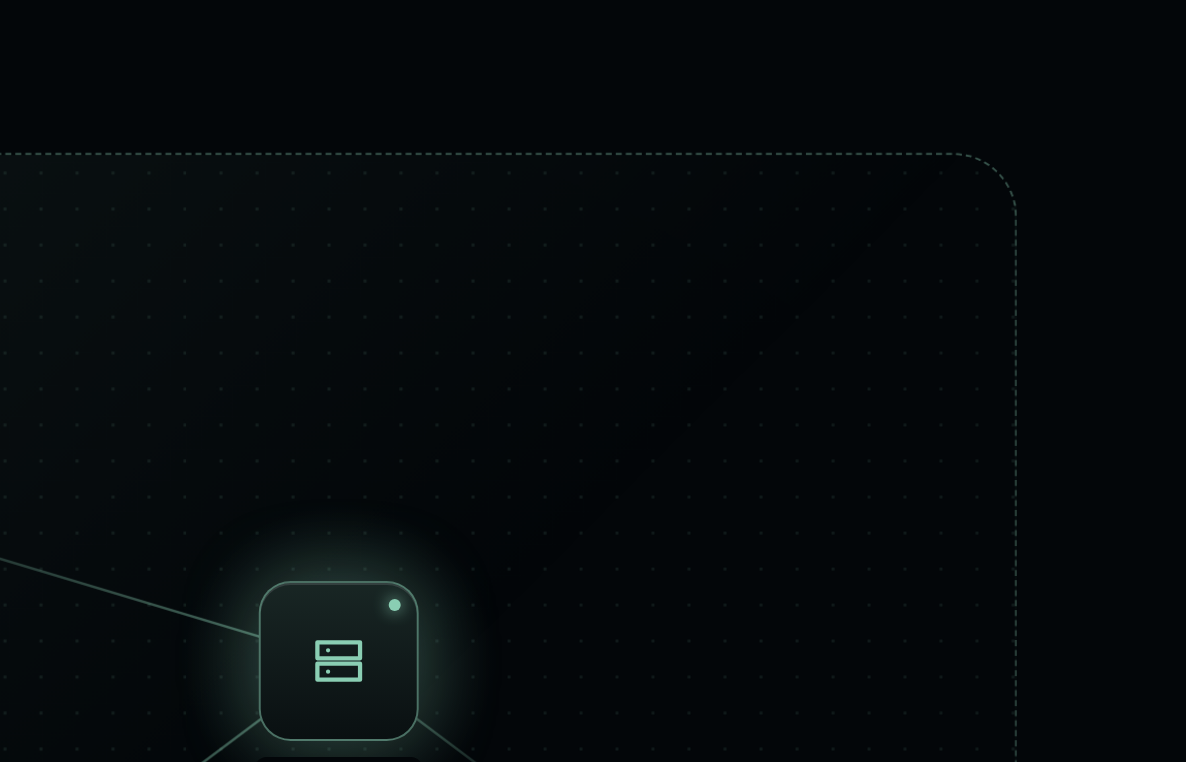
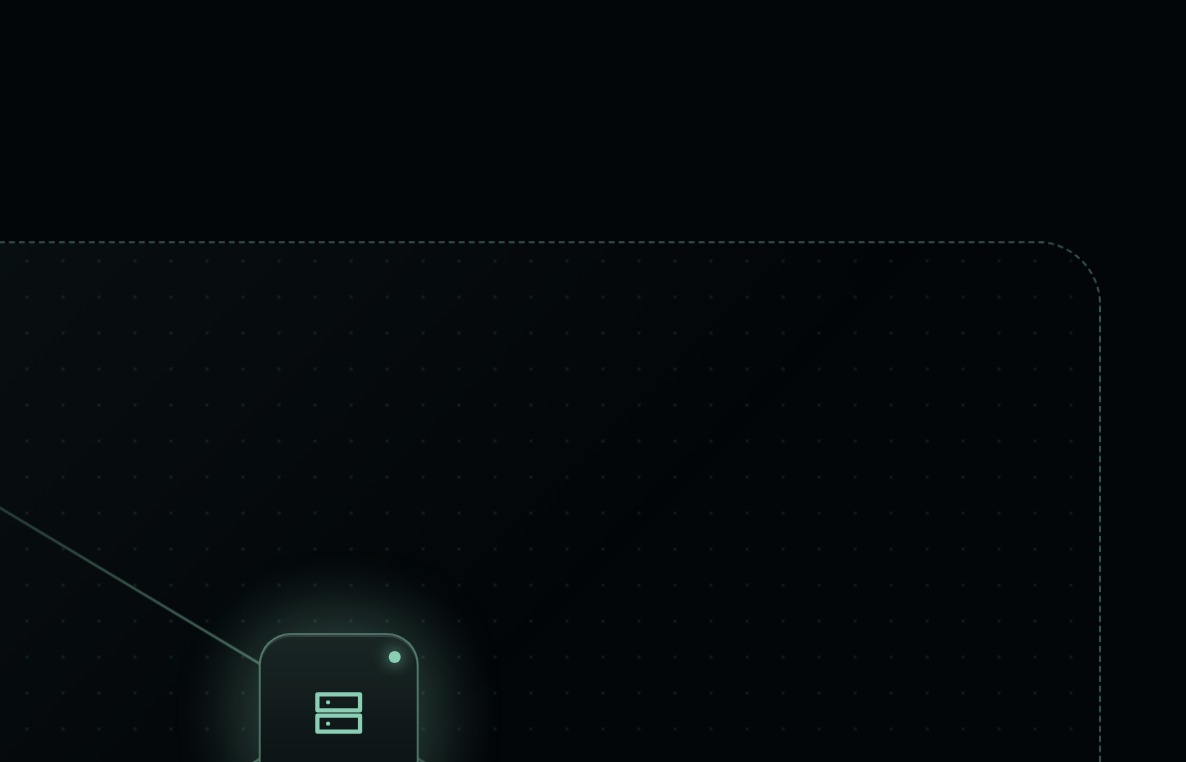
fix(sau/motion): corte en el borde del perímetro, tope de piezas de bloque y limpieza (revisión estética v3, GAL-1904)
- Esquema: con perímetro, la marca de corte cae por defecto donde el conector cruza su borde
  (calculado desde perimeter.box). Muestrario: API pública arriba, fuera de la red; nodos superiores más
  arriba. N3: ningún nodo a menos de 12 px del perímetro y la marca de corte sobre el borde (1280/390).
- Dosis (OK de Pelayo): como máximo 6 piezas de bloque (bento, cifras, filas) por página en todas las
  intensidades: motion-rules.md, catálogo, SKILL.md de motion-director y comprobación en onpage-optimizer.
- N1: la línea de SKILL.md que prohíbe asignar «En prueba» se busca exacta.
- Borradas las capturas obsoletas esquema-radial-guiones-* (OK de Pelayo).

diff --git a/evals/sau/motion/banco-web/src/app/page.tsx b/evals/sau/motion/banco-web/src/app/page.tsx
@@ -187,21 +187,21 @@ export default function Muestrario() {
       <section data-pieza="esquema-radial">
         <Diagram
           caption="Tu servidor es el centro: documentos, sistemas, accesos y auditoría se quedan dentro de tu red, y la conexión a una API pública está cortada."
-          perimeter={{ label: "Tu red" }}
+          perimeter={{ label: "Tu red", box: { left: 5, top: 19, right: 5, bottom: 2 } }}
           nodes={[
-            { id: "srv", label: "Tu servidor", sublabel: "On-premise", x: 50, y: 52, emphasis: true, icon: <Icono d="M4 5h16v6H4zM4 13h16v6H4zM8 8h.01M8 16h.01" /> },
-            { id: "doc", label: "Documentos", x: 20, y: 40, icon: <Icono d="M7 3h7l5 5v13H7zM14 3v5h5" /> },
-            { id: "sis", label: "Sistemas", x: 20, y: 82, icon: <Icono d="M5 6c0-1.5 3-3 7-3s7 1.5 7 3-3 3-7 3-7-1.5-7-3zM5 6v12c0 1.5 3 3 7 3s7-1.5 7-3V6" /> },
-            { id: "acc", label: "Accesos", x: 80, y: 82, icon: <Icono d="M9 11a3 3 0 100-6 3 3 0 000 6zM3 20c0-3 3-5 6-5s6 2 6 5M16 5a3 3 0 010 6M18 15c2 .5 3 2.5 3 5" /> },
-            { id: "aud", label: "Auditoría", x: 80, y: 40, icon: <Icono d="M9 4h6M7 4h10v17H7zM10 10h4M10 14h4" /> },
-            { id: "api", label: "API pública", x: 93, y: 5, outside: true, icon: <Icono d="M3 12h18M12 3a14 14 0 010 18M12 3a14 14 0 000 18M4 8h16M4 16h16" /> },
+            { id: "srv", label: "Tu servidor", sublabel: "On-premise", x: 50, y: 56, emphasis: true, icon: <Icono d="M4 5h16v6H4zM4 13h16v6H4zM8 8h.01M8 16h.01" /> },
+            { id: "doc", label: "Documentos", x: 20, y: 32, icon: <Icono d="M7 3h7l5 5v13H7zM14 3v5h5" /> },
+            { id: "sis", label: "Sistemas", x: 20, y: 80, icon: <Icono d="M5 6c0-1.5 3-3 7-3s7 1.5 7 3-3 3-7 3-7-1.5-7-3zM5 6v12c0 1.5 3 3 7 3s7-1.5 7-3V6" /> },
+            { id: "acc", label: "Accesos", x: 80, y: 80, icon: <Icono d="M9 11a3 3 0 100-6 3 3 0 000 6zM3 20c0-3 3-5 6-5s6 2 6 5M16 5a3 3 0 010 6M18 15c2 .5 3 2.5 3 5" /> },
+            { id: "aud", label: "Auditoría", x: 80, y: 32, icon: <Icono d="M9 4h6M7 4h10v17H7zM10 10h4M10 14h4" /> },
+            { id: "api", label: "API pública", x: 50, y: 2, outside: true, icon: <Icono d="M3 12h18M12 3a14 14 0 010 18M12 3a14 14 0 000 18M4 8h16M4 16h16" /> },
           ]}
           edges={[
             { from: "srv", to: "doc" },
             { from: "srv", to: "aud" },
             { from: "srv", to: "sis" },
             { from: "srv", to: "acc" },
-            { from: "srv", to: "api", cut: true, cutAt: 0.66 },
+            { from: "srv", to: "api", cut: true },
           ]}
         />
       </section>

diff --git a/plugins/sau/skills/motion-director/kit/components/diagram.tsx b/plugins/sau/skills/motion-director/kit/components/diagram.tsx
@@ -31,7 +31,10 @@ export type DiagramEdge = {
   to: string;
   dashed?: boolean;
   cut?: boolean;
-  /** Dónde va la marca de corte, en fracción del conector (0 = origen, 1 = destino). Por defecto 0,5. */
+  /**
+   * Dónde va la marca de corte, en fracción del conector (0 = origen, 1 = destino). Por defecto, si hay
+   * perímetro, donde el conector cruza su borde (la frontera corta la conexión); si no, en la mitad.
+   */
   cutAt?: number;
 };
 
@@ -54,6 +57,28 @@ type DiagramProps = {
   showCaption?: boolean;
   className?: string;
 };
+
+type Box = { left: number; top: number; right: number; bottom: number };
+
+/**
+ * Fracción del conector a → b en la que cruza el borde del perímetro (de dentro afuera o de fuera adentro).
+ * Si no lo cruza, la mitad.
+ */
+function borderCut(a: DiagramNode, b: DiagramNode, box: Box): number {
+  const x0 = box.left, x1 = 100 - box.right, y0 = box.top, y1 = 100 - box.bottom;
+  const dentro = (x: number, y: number) => x >= x0 && x <= x1 && y >= y0 && y <= y1;
+  const ax = a.x!, ay = a.y!, dx = b.x! - ax, dy = b.y! - ay;
+  const cortes: number[] = [];
+  for (const [lim, d, o] of [[x0, dx, ax], [x1, dx, ax], [y0, dy, ay], [y1, dy, ay]] as const) {
+    if (d === 0) continue;
+    const s = (lim - o) / d;
+    if (s <= 0 || s >= 1) continue;
+    const px = ax + dx * s, py = ay + dy * s;
+    if (px >= x0 - 1e-6 && px <= x1 + 1e-6 && py >= y0 - 1e-6 && py <= y1 + 1e-6) cortes.push(s);
+  }
+  if (dentro(ax, ay) === dentro(b.x!, b.y!) || !cortes.length) return 0.5;
+  return Math.min(...cortes);
+}
 
 /** Identificador estable para los degradados de los conectores (sin estado ni hooks). */
 function slug(text: string) {
@@ -155,7 +180,7 @@ export function Diagram({
   }
 
   // Por defecto, simétrico: deja una columna a cada lado para nodos externos y queda centrado con el pie.
-  const box = perimeter?.box ?? { left: 10, top: 12, right: 10, bottom: 3 };
+  const box: Box = perimeter?.box ?? { left: 10, top: 12, right: 10, bottom: 3 };
   return (
     <figure
       className={cn("motion-diagram", className)}
@@ -213,7 +238,7 @@ export function Diagram({
           .map((e, i) => {
             const a = byId.get(e.from)!;
             const b = byId.get(e.to)!;
-            const f = e.cutAt ?? 0.5;
+            const f = e.cutAt ?? (perimeter ? borderCut(a, b, box) : 0.5);
             return (
               <span
                 key={i}

diff --git a/evals/sau/motion/nivel1.py b/evals/sau/motion/nivel1.py
@@ -278,7 +278,9 @@ def comprobar_coherencia(director: Path, archivos_comp: list[Path]) -> None:
     if en_prueba:
         anotar("ok", f"coherencia: {len(nombres_p)} piezas en prueba, separadas de las {len(nombres_a)} asignables")
         skill = director / "SKILL.md"
-        if not (skill.exists() and "En prueba" in skill.read_text(encoding="utf-8")):
+        # La línea que lo prohíbe: menciona «En prueba» y dice que no se asignan.
+        if not (skill.exists() and any("En prueba" in l and "no se asignan" in l
+                                       for l in skill.read_text(encoding="utf-8").splitlines())):
             anotar("FAIL", "coherencia: SKILL.md de motion-director dice que no asigna las piezas «En prueba»", "falta la mención en SKILL.md")
     filas = asignables + en_prueba
     exportados = nombres_exportados(index_ts)

diff --git a/plugins/sau/skills/motion-director/motion-catalog.md b/plugins/sau/skills/motion-director/motion-catalog.md
@@ -19,7 +19,7 @@ Reglas de uso: `motion-rules.md`.
 
 Están en el kit y pasan el banco de pruebas (`evals/sau/motion/`), pero Pelayo aún no ha dado el OK a sus capturas.
 `motion-director` **no las asigna** ni las propone en el plan. Pasar una pieza de aquí a «Resumen» es un cambio aparte, con ese OK.
-Sus fichas están al final de este catálogo («Fichas en prueba»). Tipo «de bloque» y dosis: `motion-rules.md`, sección 3.
+Sus fichas están al final de este catálogo («Fichas en prueba»). Tipo «de bloque» y dosis: `motion-rules.md`, sección 3. Piezas de bloque (`bento`, `cifras`, `filas`): una por sección H2 y **seis por página como máximo**, en cualquier intensidad.
 
 | Pieza | Tipo | Cuándo usarla | Componente | Sintaxis en Markdown |
 |---|---|---|---|---|
@@ -123,7 +123,7 @@ Piezas de la tabla «En prueba». No se asignan hasta el OK de Pelayo.
 ## `filas` (en prueba; de bloque)
 
 - **Qué hace:** una lista de 2–6 pares etiqueta + texto (como la normativa de `/ia-onpremise`: RGPD, AI Act, España). Cada fila sube y el separador que tiene encima crece de izquierda a derecha.
-- **Contenido válido:** de 2 a 6 filas. Etiqueta de hasta 3 palabras; texto de 1 a 3 frases. Como máximo una por sección H2.
+- **Contenido válido:** de 2 a 6 filas. Etiqueta de hasta 3 palabras; texto de 1 a 3 frases. Como máximo una por sección H2 (y cuenta para el tope de seis piezas de bloque por página).
 - **No usar si:** hay orden temporal (`pasos`), las etiquetas son largas o cada fila necesita título y párrafos (`bento`), o son FAQ largas.
 - **Markdown** (la primera negrita es la etiqueta, sin el punto final; el resto, el texto):
 
@@ -140,7 +140,7 @@ Piezas de la tabla «En prueba». No se asignan hasta el OK de Pelayo.
 ## `bento` (en prueba; de bloque)
 
 - **Qué hace:** una rejilla de 2–8 tarjetas que suben escalonadas por columna, sin poner `index` a mano. Variante `grid` (solo TSX): tarjetas pegadas con separadores de 1 px, como las cuatro razones numeradas de `/ia-onpremise`.
-- **Contenido válido:** de 2 a 8 elementos paralelos, cada uno con un título corto y una o dos frases. Como máximo una por sección H2.
+- **Contenido válido:** de 2 a 8 elementos paralelos, cada uno con un título corto y una o dos frases. Como máximo una por sección H2 (y cuenta para el tope de seis piezas de bloque por página).
 - **No usar si:** hay orden (`pasos`), son dos opciones enfrentadas (`comparativa`), cada elemento es solo etiqueta y texto (`filas`) o lo principal es un número (`cifras`).
 - **Columnas según el contenedor:** 4 columnas solo si el bento mide 60rem o más (si no, 2 × 2); 3 desde 48rem. En Markdown, el título de cada tarjeta (la primera negrita) pierde el punto final.
 - **Markdown** (`columnas` = 2, 3 o 4 y `numerada` son los únicos atributos; en Markdown siempre son tarjetas):
@@ -158,7 +158,7 @@ Piezas de la tabla «En prueba». No se asignan hasta el OK de Pelayo.
 ## `cifras` (en prueba; de bloque)
 
 - **Qué hace:** de 2 a 4 cifras clave en fila. El número sube por máscara (como un H2) y su explicación sube detrás. Sin contador: el número final está siempre en el HTML.
-- **Contenido válido:** de 2 a 4 cifras que **ya están en el borrador con su fuente** (nunca se inventa una cifra; si es un claim, pasa por revisión legal). Valor corto (hasta 8 caracteres) y explicación de una frase. Como máximo **una por página**.
+- **Contenido válido:** de 2 a 4 cifras que **ya están en el borrador con su fuente** (nunca se inventa una cifra; si es un claim, pasa por revisión legal). Valor corto (hasta 8 caracteres) y explicación de una frase. Como máximo **una por página** (y cuenta para el tope de seis piezas de bloque por página).
 - **No usar si:** las cifras no tienen fuente, hay más de 4 (usar `filas` o una tabla) o el número no es lo importante (`bento`).
 - **Unidad:** lo que va tras el último espacio de la cifra («GB», «%») sale más pequeño y en color de acento, con espacio fino sin salto. La cifra va en la fuente del texto (no en mono).
 - **Markdown** (la primera negrita de cada elemento es la cifra; el resto, la explicación). Ejemplo con cifras publicadas en `/ia-onpremise` de Galileo:
@@ -175,7 +175,7 @@ Piezas de la tabla «En prueba». No se asignan hasta el OK de Pelayo.
 
 ## `esquema` (en prueba; destacada)
 
-- **Qué hace:** un esquema de 3–7 nodos unidos por conectores, en el lenguaje del perímetro de `/ia-onpremise` (tiles, cable que se apaga). Cada conector crece desde su nodo de origen y el nodo destino aparece cuando la línea lleva unos dos tercios: la línea «lleva» al nodo. Las conexiones cortadas (`cut`) llevan marca de corte y entran las últimas, con un fundido.
+- **Qué hace:** un esquema de 3–7 nodos unidos por conectores, en el lenguaje del perímetro de `/ia-onpremise` (tiles, cable que se apaga). Cada conector crece desde su nodo de origen y el nodo destino aparece cuando la línea lleva unos dos tercios: la línea «lleva» al nodo. Las conexiones cortadas (`cut`) llevan marca de corte (con perímetro, por defecto en el punto donde cruzan su borde: la frontera corta la conexión) y entran las últimas, con un fundido.
 - **Dos disposiciones:** `layout="stage"` (por defecto), nodos en (x, y) sobre un escenario, con `perimeter` opcional (rectángulo discontinuo con etiqueta) y nodos `outside`; `layout="row"`, capas o pasos en fila unidos en orden, con el alto del contenido (en móvil, en columna).
 - **Contenido válido:** de 3 a 7 nodos con etiquetas de hasta 3 palabras, y un `caption` obligatorio que dice en una frase lo mismo que el dibujo. Como máximo **dos por página**.
 - **No usar si:** es una secuencia de pasos con texto largo (`pasos`), hay más de 7 nodos o los nodos necesitan más de 3 palabras.

diff --git a/plugins/sau/skills/onpage-optimizer/SKILL.md b/plugins/sau/skills/onpage-optimizer/SKILL.md
@@ -96,7 +96,8 @@ Then run **only** the matching branch.
 9. **Motion.** Check against `${CLAUDE_PLUGIN_ROOT}/skills/motion-director/motion-rules.md`: the H1, the
    hero and the LCP element are not animated; every piece is in
    `${CLAUDE_PLUGIN_ROOT}/skills/motion-director/motion-catalog.md`; no piece wraps an answer capsule; the dose matches the
-   brief's "Movimiento" intensity. Read the `motion:` frontmatter and any `:::`
+   brief's "Movimiento" intensity and the block-piece cap (`bento`, `cifras`, `filas`: at most one per H2 section and
+   six per page, at any intensity). Read the `motion:` frontmatter and any `:::`
    blocks. Use `n/a` if `motion-director` has not run yet, and say so.
 10. **Technical hygiene.** Read the raw server HTML (fetch the URL; for a draft,
    check what applies). Each item is a `fail` when found:
@@ -148,7 +149,8 @@ Then run **only** the matching branch.
 9. **Motion.** Check against `${CLAUDE_PLUGIN_ROOT}/skills/motion-director/motion-rules.md`: the H1, the
    hero and the LCP element are not animated; every piece is in
    `${CLAUDE_PLUGIN_ROOT}/skills/motion-director/motion-catalog.md`; no piece wraps an answer capsule; the dose matches the
-   brief's "Movimiento" intensity. Read the `motion:` frontmatter and any `:::`
+   brief's "Movimiento" intensity and the block-piece cap (`bento`, `cifras`, `filas`: at most one per H2 section and
+   six per page, at any intensity). Read the `motion:` frontmatter and any `:::`
    blocks. Use `n/a` if `motion-director` has not run yet, and say so.
 10. **Technical hygiene.** Read the raw server HTML (fetch the URL; for a draft,
    check what applies). Each item is a `fail` when found:

diff --git a/plugins/sau/skills/motion-director/motion-rules.md b/plugins/sau/skills/motion-director/motion-rules.md
@@ -30,7 +30,7 @@ Principio: **entrar con intención, sostener, salir limpio.**
 ## 3. Reglas de dosis
 
 1. **Por defecto:** todos los H2 entran por máscara y los H3 y las citas suben (`reveal`). En páginas de servicio, cada sección numerada abre con `encabezado-seccion`. Lo aplica el kit; la skill no lo decide.
-2. **Piezas de bloque** (`bento`, `cifras`, `filas`): como máximo **una por sección H2**. No cuentan como destacadas. `cifras`, como máximo **una por página**.
+2. **Piezas de bloque** (`bento`, `cifras`, `filas`): como máximo **una por sección H2** y **seis por página**, en todas las intensidades. No cuentan como destacadas. `cifras`, como máximo **una por página**.
 3. **Piezas destacadas** (`pasos`, `comparativa`, `cita-destacada`, `esquema`, `orbita`): como máximo **una cada 2–3 secciones H2**.
 4. **Límites por página:** `cita-destacada` y `orbita`, una; `esquema`, dos.
 5. **Nunca en la primera pantalla:** `esquema` y `orbita` no van en el hero ni en la primera sección visible al cargar.

diff --git a/plugins/sau/skills/motion-director/SKILL.md b/plugins/sau/skills/motion-director/SKILL.md
@@ -57,6 +57,7 @@ Lista cada H2 con su contenido. Para cada uno, anota si contiene:
 Aplica las reglas de dosis de `motion-rules.md`:
 
 - Máximo una pieza destacada cada 2–3 secciones H2.
+- Piezas de bloque (`bento`, `cifras`, `filas`): máximo una por sección H2 y seis por página, en cualquier intensidad (solo cuando salgan de «En prueba»).
 - Máximo una `cita-destacada` por página.
 - Respeta el rango de piezas de la intensidad del brief.
 - Si dos secciones compiten, elige la que más ayuda a entender el contenido.
